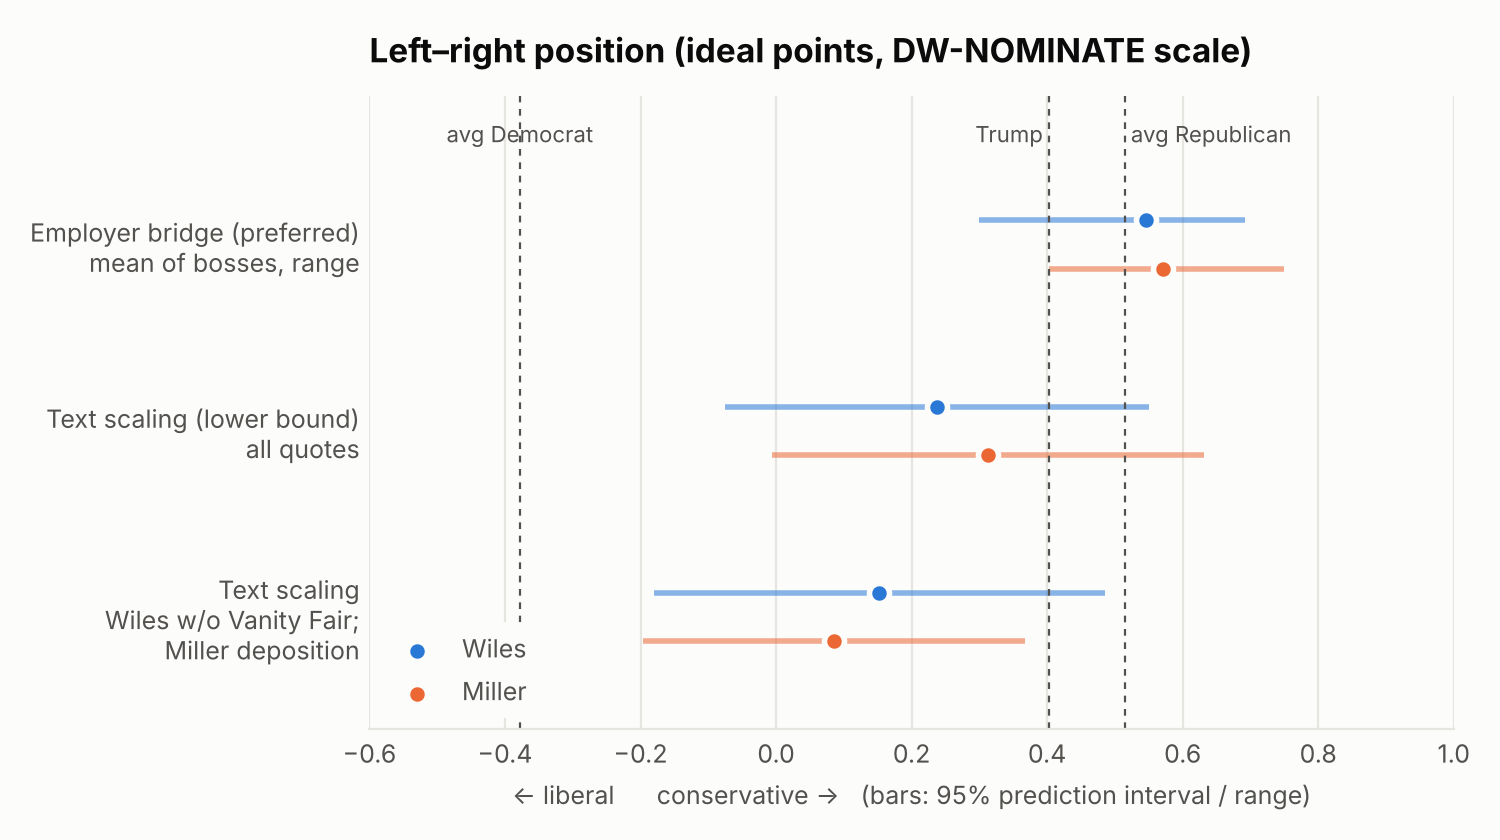
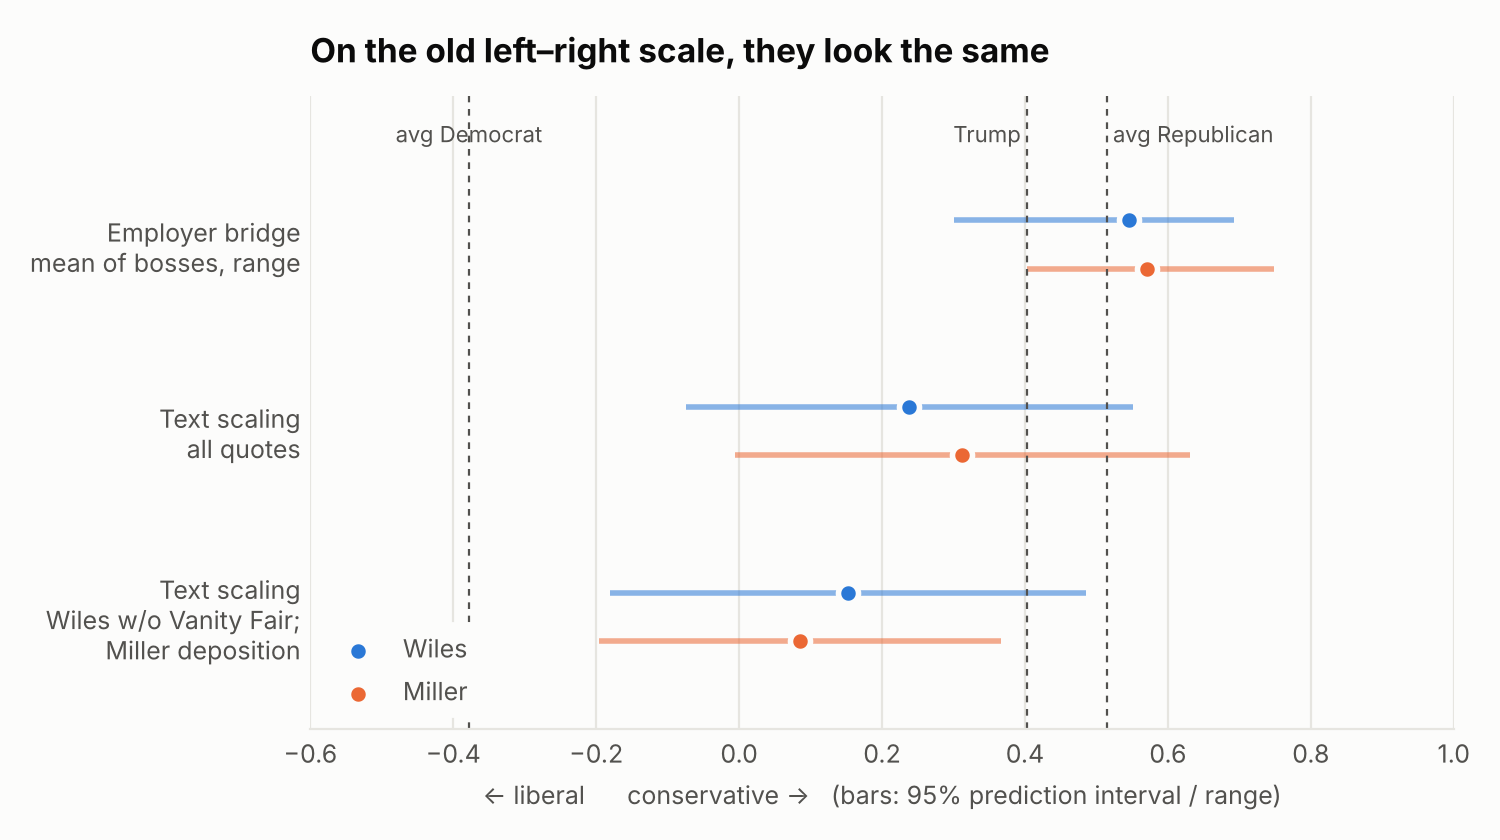
Demote ideology scores; lead with friction
- Drop 'same ideology' from the summary and findings; the 'same agenda'
  claim now rests on Miller already running immigration policy
- Move the ideal-point section to the back, retitled to explain why
  the old left-right scale can't separate them (it misses immigration,
  nationalism and executive power; Trump's +0.40 is that artifact)
- Retitle the chart; update the README and the 'what would sharpen
  this' list

Claude-Session: https://claude.ai/code/session_01GuL9EywXuLbctTTRibbsPQ

diff --git a/src/mvw/figures.py b/src/mvw/figures.py
@@ -143,10 +143,10 @@ def ideal_point_chart(path=None):
     s, ref = r["scores"], r["reference"]
     pr = {k: [x["dw_nominate_dim1"] for x in r["principals"] if x["person"] == k] for k in ("wiles", "miller")}
     rows = [  # (label, person, point, lo, hi)
-        ("Employer bridge (preferred)\nmean of bosses, range", "wiles", float(np.mean(pr["wiles"])), min(pr["wiles"]), max(pr["wiles"])),
-        ("Employer bridge (preferred)\nmean of bosses, range", "miller", float(np.mean(pr["miller"])), min(pr["miller"]), max(pr["miller"])),
-        ("Text scaling (lower bound)\nall quotes", "wiles", s["wiles_all"]["estimate"], *s["wiles_all"]["pi95"]),
-        ("Text scaling (lower bound)\nall quotes", "miller", s["miller_all"]["estimate"], *s["miller_all"]["pi95"]),
+        ("Employer bridge\nmean of bosses, range", "wiles", float(np.mean(pr["wiles"])), min(pr["wiles"]), max(pr["wiles"])),
+        ("Employer bridge\nmean of bosses, range", "miller", float(np.mean(pr["miller"])), min(pr["miller"]), max(pr["miller"])),
+        ("Text scaling\nall quotes", "wiles", s["wiles_all"]["estimate"], *s["wiles_all"]["pi95"]),
+        ("Text scaling\nall quotes", "miller", s["miller_all"]["estimate"], *s["miller_all"]["pi95"]),
         ("Text scaling\nWiles w/o Vanity Fair;\nMiller deposition", "wiles", s["wiles_excl_vanity_fair"]["estimate"], *s["wiles_excl_vanity_fair"]["pi95"]),
         ("Text scaling\nWiles w/o Vanity Fair;\nMiller deposition", "miller", s["miller_deposition_2022 (200 answers)"]["estimate"], *s["miller_deposition_2022 (200 answers)"]["pi95"]),
     ]
@@ -167,7 +167,7 @@ def ideal_point_chart(path=None):
     ax.set_yticks(range(len(labels)), labels[::-1])
     ax.set_xlim(-0.6, 1.0)
     ax.set_ylim(-0.6, len(labels) - 0.2)
-    _style(ax, "Left–right position (ideal points, DW-NOMINATE scale)", "← liberal      conservative →   (bars: 95% prediction interval / range)")
+    _style(ax, "On the old left–right scale, they look the same", "← liberal      conservative →   (bars: 95% prediction interval / range)")
     ax.legend(frameon=True, facecolor=SURF, edgecolor=SURF, framealpha=1, fontsize=9, labelcolor=INK2, loc="lower left")
     _save(fig, "ideal_points.png")
 

diff --git a/reports/REPORT.md b/reports/REPORT.md
@@ -6,7 +6,7 @@ them by others, and Miller's 450-answer Jan. 6 Committee deposition.*
 
 ## The short answer
 
-The easy take is that Miller is the hardliner and Wiles the quiet moderate. On **ideology**, that's wrong. Both sit at the same mainstream-Republican position, they worked for the same kind of politicians, and both are loyal to Trump. Miller's immigration agenda was already White House policy under Wiles, and it stays.
+The easy take is that Miller is the hardliner and Wiles the quiet operator. The data supports the first half: on immigration, executive power and treating opponents as enemies, Miller is far out. But that isn't what changes on Nov 9. **Miller's agenda was already White House policy**: he ran immigration and homeland security as deputy chief of staff under Wiles.
 
 What changes is **the job being done at the top of the staff**. Wiles's public words are about running the building: managing staff, defending the team, and (on the record) pushing back on Trump. Miller's are about fighting opponents and expanding power. **The agenda doesn't change; the internal friction does.** The person who most often pushed for more power and force now also controls what reaches the president.
 
@@ -16,37 +16,14 @@ What changes is **the job being done at the top of the staff**. Wiles's public w
 
 | # | Finding | Evidence | Why that rating |
 |---|---|---|---|
-| 1 | **Same left–right position.** Both are mainstream Republicans: about +0.55 on a −1 to +1 scale (average congressional Republican +0.51). | **Moderate** | Two independent methods agree, but the positions are estimated, not measured (see §1) |
-| 2 | **Different job.** Wiles points inward (Trump, staff, colleagues); Miller points outward (opponents, immigrants, courts, foreign states). | **Strong** | Very large gaps (0% vs 85% aimed at political out-groups) that survive dropping Wiles's biggest source |
-| 3 | **Wiles brakes, Miller accelerates.** 17% of Wiles's quotes signal limits or pushback, against 2% of Miller's. 39% of Miller's push for more power or force, against 0% of Wiles's. | **Moderate for Miller, weak for Wiles** | Miller's accelerator pattern appears across venues. *Every* Wiles brake quote comes from one source (Vanity Fair), backed by third-party reports, and whether her brake actually worked is unproven |
-| 4 | **Miller's public voice is partly a chosen register.** Under oath he sounds much more like Wiles. | **Moderate** | Strong contrast, but the deposition is from 2022 and in a legal setting |
+| 1 | **Different job.** Wiles points inward (Trump, staff, colleagues); Miller points outward (opponents, immigrants, courts, foreign states). | **Strong** | Very large gaps (0% vs 85% aimed at political out-groups) that survive dropping Wiles's biggest source |
+| 2 | **Wiles brakes, Miller accelerates.** 17% of Wiles's quotes signal limits or pushback, against 2% of Miller's. 39% of Miller's push for more power or force, against 0% of Wiles's. | **Moderate for Miller, weak for Wiles** | Miller's accelerator pattern appears across venues. *Every* Wiles brake quote comes from one source (Vanity Fair), backed by third-party reports, and whether her brake actually worked is unproven |
+| 3 | **Miller's public voice is partly a chosen register.** Under oath he sounds much more like Wiles. | **Moderate** | Strong contrast, but the deposition is from 2022 and in a legal setting |
+| 4 | **Standard ideology scores can't separate them**, because those scores miss what makes Miller distinctive. | **Methodological** | The old left–right scale measures economics and the role of government, not immigration, nationalism or executive power (§5) |
 
 ---
 
-## 1. Ideology: the same
-
-![ideal points](figures/ideal_points.png)
-
-These are **ideal-point estimates**: each person's left–right position inferred from evidence, shown on the DW-NOMINATE scale (−1 liberal to +1 conservative) so they can be compared with members of Congress. Neither person has a true DW-NOMINATE score, because that requires congressional roll-call votes.
-
-| Method | Wiles | Miller |
-|---|---|---|
-| **Employer bridge** (preferred): average score of the politicians they worked for | **+0.55** (range 0.30–0.69) | **+0.57** (range 0.40–0.75) |
-| Text scaling (lower bound): how much their words resemble Republican vs. Democratic legislators' tweets | +0.24 (95% PI −0.08 to 0.55) | +0.31 (95% PI −0.01 to 0.63) |
-| *For comparison* | Trump +0.40 · average congressional Republican +0.51 · average Democrat −0.38 | |
-
-**Who they worked for:**
-- **Wiles:** Rep. Kemp +0.30, Reagan +0.69, Rick Scott +0.67, DeSantis +0.66, Trump +0.40.
-- **Miller:** Rep. Bachmann +0.58, Rep. Shadegg +0.75, Sen. Sessions +0.55, Trump +0.40.
-
-Counting only post-2009 bosses, they come out identical: +0.58 vs +0.57.
-
-**Why text scaling is only a lower bound.** The model was trained on 81,365 congressional tweets. Tested on legislators it hadn't seen, it recovers their real scores from just 26–53 tweets each (r = 0.94). But it misreads this material:
-- "Deport the invaders, or surrender to insurrection" scores *liberal*, because "insurrection" was mostly Democratic vocabulary about Jan. 6.
-- It can't tell who is accusing whom when Miller uses words like "hate" and "violence."
-- Calm registers such as testimony and management talk look centrist.
-
-## 2. Job: inward manager vs. outward combatant
+## 1. Job: inward manager vs. outward combatant
 
 ![functions](figures/functions.png)
 ![targets](figures/targets.png)
@@ -58,7 +35,7 @@ Counting only post-2009 bosses, they come out identical: +0.58 vs +0.57.
 
 ![lexicon](figures/lexicon_rates.png)
 
-## 3. Friction: who brakes, who accelerates
+## 2. Friction: who brakes, who accelerates
 
 **Miller, accelerator (39% of quotes), across venues:**
 - habeas corpus suspension "actively looking at"
@@ -79,7 +56,7 @@ Counting only post-2009 bosses, they come out identical: +0.58 vs +0.57.
 
 **The counterpoint, which matters:** Trump did the Jan. 6 pardons and the tariffs anyway, and Wiles herself said "if there's a tie, he wins." Her brake signals also come from a profile she may have given partly to shape her legacy. **The case that she *was positioned* as a brake is decent. The case that the brake *worked* is weak.** If it rarely worked, the practical change on Nov 9 is smaller than the rhetorical gap suggests.
 
-## 4. Register: Miller under oath
+## 3. Register: Miller under oath
 
 | per 100 words | Miller in public | Miller under oath (26,306 words) | Wiles in public |
 |---|---|---|---|
@@ -91,7 +68,7 @@ The firebrand voice is a choice, not the only way he talks. But at the one event
 - **Wiles:** "That was Charlie's army, and he made sure they understood what was at stake."
 - **Miller:** "You are nothing. You are wickedness, you are jealousy, you are envy, you are hatred."
 
-## 5. How others see them
+## 4. How others see them
 
 ![perception](figures/perception_scm.png)
 
@@ -101,11 +78,31 @@ Allies describe both as loyal and effective. Neutral reporters split them:
 
 Inside the building, people say staff "will take a bullet for Susie." Accounts of Miller describe a "wartime general" who shouts at staff and an "acquired taste."
 
+## 5. Why standard ideology scores don't separate them
+
+![ideal points](figures/ideal_points.png)
+
+It's natural to ask where each sits on the standard left–right scale used for Congress (DW-NOMINATE, −1 liberal to +1 conservative). Neither has a true score, because that requires roll-call votes. So I estimated **ideal points** (left–right positions inferred from other evidence) two ways:
+
+| Method | Wiles | Miller |
+|---|---|---|
+| Employer bridge: average score of the politicians they worked for | +0.55 (range 0.30–0.69) | +0.57 (range 0.40–0.75) |
+| Text scaling: how much their words resemble Republican vs. Democratic legislators' tweets | +0.24 (95% PI −0.08 to 0.55) | +0.31 (95% PI −0.01 to 0.63) |
+| *For comparison* | Trump +0.40 · average congressional Republican +0.51 · average Democrat −0.38 | |
+
+**Don't read these as "they have the same ideology," or "Miller is a mainstream Republican."** On this scale the two are indistinguishable, but the scale itself is blind to what matters here:
+
+- **It measures the old divide.** DW-NOMINATE's first dimension tracks economics and the size of government. Immigration restriction, tariffs, nationalism and expanded executive power, the things Trump changed, barely register. That is why Trump scores *less* conservative (+0.40) than the average congressional Republican. His Voteview score comes from his stated positions on bills in 2017–20, much of it conventional fare like tax cuts.
+- **The employer bridge measures their bosses, not them.** Sen. Sessions scores an ordinary +0.55, yet he led the Senate's immigration restrictionists, and Miller wrote his speeches. The scale can't see that.
+- **The text model misreads the material.** It was trained on 81,365 congressional tweets and recovers held-out legislators' scores well (r = 0.94 from 26–53 tweets). But "Deport the invaders, or surrender to insurrection" scores *liberal*, because in 2021 "insurrection" was mostly Democratic vocabulary about Jan. 6. It also can't tell who is accusing whom when Miller says "hate" or "violence."
+
+The dimension where Miller is clearly further out (immigration, executive power, opponents as enemies) is measured by §1–2, not by this scale. Better ideal-point methods for non-legislators (Bonica's campaign-finance CFscores, Barberá's follower networks) would help, but they'd still mostly capture the old left–right divide.
+
 ---
 
 ## What changes on Nov 9, and how to tell
 
-**Doesn't change:** ideology, the immigration agenda, loyalty to Trump.
+**Doesn't change:** the immigration agenda (already Miller's), loyalty to Trump.
 **Changes:** the internal friction. The policy accelerator now also runs the process.
 
 Indicators to track, each measurable with this repo's codebook:
@@ -113,11 +110,10 @@ Indicators to track, each measurable with this repo's codebook:
 2. **Public profile:** the chief of staff's posts and TV appearances per week. *Prediction: well above Wiles's level.*
 3. **Register:** Miller's ATTACK/POWER share after Nov 9. *Is it still above 80%, or does the job pull him toward management talk?*
 4. **Pace:** executive actions per month, and the rate of court losses on them.
-5. **Ideal point:** *Prediction: no movement.* If it moves, finding 1 is wrong.
 
 ## What would sharpen this
 
-- **Better ideal points:** Bonica's campaign-finance scores (CFscores) and Barberá's follower-network scores are the standard choices for non-legislators. Both need data from sites this session can't reach (Harvard Dataverse, the X API).
+- **Ideology on the dimensions that matter:** issue-specific scaling of positions on immigration, trade and executive power, rather than the old left–right axis. CFscores and follower-network ideal points could serve as cross-checks, but both need data this session can't reach (Harvard Dataverse, the X API).
 - **Full transcripts and timelines:** these would replace press-filtered quotes and let us measure how much the press picks the most extreme lines.
 - **A second human coder** for the function and stance codes, to measure reliability.
 

diff --git a/README.md b/README.md
@@ -4,7 +4,7 @@ How do **Susie Wiles** and **Stephen Miller** compare as communicators? Trump na
 
 ## Finding: same agenda, different friction
 
-- **Same ideology.** Both are mainstream Republicans: about +0.55 on a −1 (liberal) to +1 (conservative) scale, where the average congressional Republican is +0.51 and Trump +0.40. Both are loyal to Trump, and Miller's agenda was already White House policy.
+- **Same agenda.** Miller already ran immigration and homeland security policy as deputy chief of staff under Wiles. His hardline views were White House policy before Nov 9 and remain so after. (Standard left–right ideology scores can't tell the two apart, but those scores miss immigration and executive power, the dimensions where Miller stands out.)
 - **Different job.** Wiles's public words point inward: managing staff, defending the team, and (on the record) pushing back on Trump. Miller's point outward: attacking opponents and pushing for more power and force.
 - **What changes on Nov 9** is the internal friction, not the direction. The policy accelerator now also runs the process.
 
